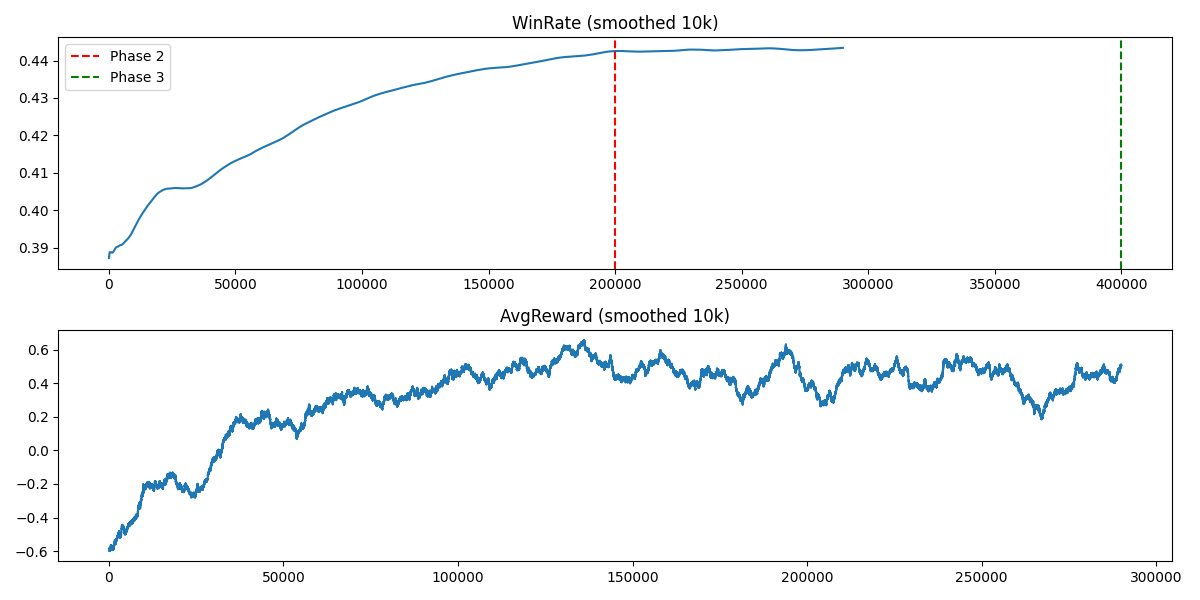
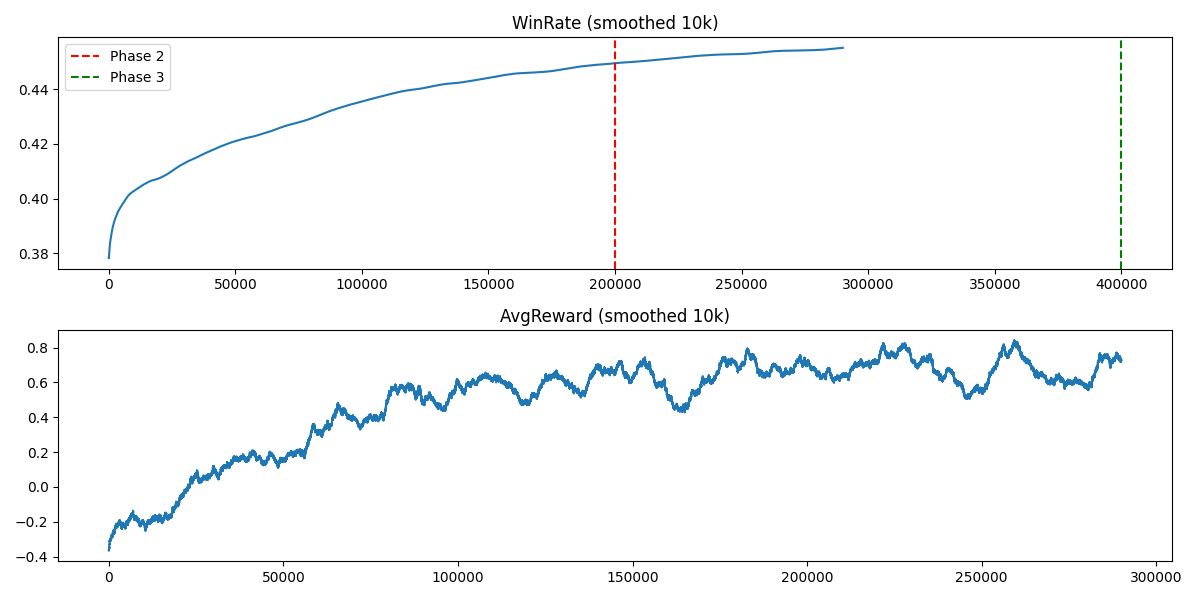
update opponent_model giữ qua mỗi episodes

diff --git a/poker-bot/plot.py b/poker-bot/plot.py
@@ -1,21 +1,35 @@
 # Thêm vào cuối train.py, sau run_training()
 # Hoặc chạy riêng trong file check_log.py
 
+from pathlib import Path
+
 import numpy as np
 import matplotlib.pyplot as plt
 
-rewards   = np.load('rewards.npy')
-win_rates = np.load('win_rates.npy')
+from train import EPSILON, EPSILON_DECAY, MIN_EPSILON
+
+BASE_DIR = Path(__file__).resolve().parent
+
+rewards = np.load(BASE_DIR / "rewards.npy")
+win_rates = np.load(BASE_DIR / "win_rates.npy")
 
 window = 10_000
-smoothed_wr  = np.convolve(win_rates,  np.ones(window)/window, mode='valid')
-smoothed_rew = np.convolve(rewards,    np.ones(window)/window, mode='valid')
+smoothed_wr = np.convolve(win_rates, np.ones(window) / window, mode="valid")
+smoothed_rew = np.convolve(rewards, np.ones(window) / window, mode="valid")
 
 fig, (ax1, ax2) = plt.subplots(2, 1, figsize=(12, 6))
-ax1.plot(smoothed_wr);  ax1.set_title('WinRate (smoothed 10k)'); ax1.axvline(200_000, color='r', linestyle='--', label='Phase 2'); ax1.axvline(400_000, color='g', linestyle='--', label='Phase 3'); ax1.legend()
-ax2.plot(smoothed_rew); ax2.set_title('AvgReward (smoothed 10k)')
+ax1.plot(smoothed_wr)
+ax1.set_title("WinRate (smoothed 10k)")
+ax1.axvline(200_000, color="r", linestyle="--", label="Phase 2")
+ax1.axvline(400_000, color="g", linestyle="--", label="Phase 3")
+ax1.legend()
+ax2.plot(smoothed_rew)
+ax2.set_title("AvgReward (smoothed 10k)")
 plt.tight_layout()
-plt.savefig('training_curve.png')
+plt.savefig(BASE_DIR / "training_curve.png")
+
+final_epsilon_estimate = max(MIN_EPSILON, EPSILON * (EPSILON_DECAY ** len(rewards)))
+
 print(f"Total episodes trained: {len(rewards)}")
-print(f"Final epsilon estimate: {0.35 * (0.999990 ** len(rewards)):.4f}")
+print(f"Final epsilon estimate: {final_epsilon_estimate:.4f}")
 print(f"WinRate last 10k: {win_rates[-1]:.4f}")

diff --git a/poker-bot/evaluate.py b/poker-bot/evaluate.py
@@ -266,7 +266,7 @@ class EpisodeResult:
     action_diagnostics: dict = field(default_factory=dict)
 
 
-def run_episode(env, policy0, policy1, starting_player=0):
+def run_episode(env, policy0, policy1, starting_player=0, opponent_model=None):
     state, info = env.reset(options={"starting_player": starting_player})
     terminated = False
     truncated = False
@@ -275,7 +275,8 @@ def run_episode(env, policy0, policy1, starting_player=0):
     folds_when_facing_bet = 0
     faced_bet_count = 0
     action_diagnostics = init_action_diagnostics()
-    opponent_model = OpponentModel()
+    if opponent_model is None:
+        opponent_model = OpponentModel()
 
     while not terminated and not truncated:
         acting_player = env.current_player
@@ -428,9 +429,10 @@ def summarize_results(results):
 
 def evaluate_matchup(label, policy0, policy1, env, games=EVAL_GAMES):
     results = []
+    opponent_model = OpponentModel()
     for game_idx in range(games):
         starting_player = game_idx % 2
-        results.append(run_episode(env, policy0, policy1, starting_player=starting_player))
+        results.append(run_episode(env, policy0, policy1, starting_player=starting_player, opponent_model=opponent_model))
     summary = summarize_results(results)
     summary["label"] = label
     return summary

diff --git a/poker-bot/train.py b/poker-bot/train.py
@@ -156,6 +156,7 @@ def run_training():
     losses = 0
 
     opponent_counts = {name: 0 for name in OPPONENT_POLICIES}
+    opponent_models = {name: OpponentModel() for name in OPPONENT_POLICIES}
 
     for episode in range(EPISODES):
         opponent_name, opponent_policy = choose_training_opponent()
@@ -163,7 +164,7 @@ def run_training():
 
         starting_player = episode % 2
         state, info = env.reset(options={"starting_player": starting_player})
-        opponent_model = OpponentModel()
+        opponent_model = opponent_models[opponent_name]
         terminated = False
         truncated = False
         total_reward = 0

diff --git a/poker-bot/README.md b/poker-bot/README.md
@@ -195,16 +195,17 @@ A tiny Player 0-only shaping reward is added for pot-risk learning:
 
 Training flow:
 
-1. Reset environment
-2. Create fresh `OpponentModel`
-3. Check current acting player
-4. Agent acts if Player 0 with current opponent profile
-5. Weighted opponent action if Player 1
-6. Record opponent action into `OpponentModel`
-7. Use delayed update: update Player 0 transition only after next Player 0 decision point or terminal state
-8. Track rewards and win rates
-9. Decay epsilon
-10. Save outputs:
+1. Create one persistent `OpponentModel` per opponent style
+2. Reset environment each episode
+3. Select weighted opponent style and reuse its existing `OpponentModel`
+4. Check current acting player
+5. Agent acts if Player 0 with current opponent profile
+6. Weighted opponent action if Player 1
+7. Record opponent action into that style's persistent `OpponentModel`
+8. Use delayed update: update Player 0 transition only after next Player 0 decision point or terminal state
+9. Track rewards and win rates
+10. Decay epsilon
+11. Save outputs:
    - `q_table.npy`
    - `rewards.npy`
    - `win_rates.npy`